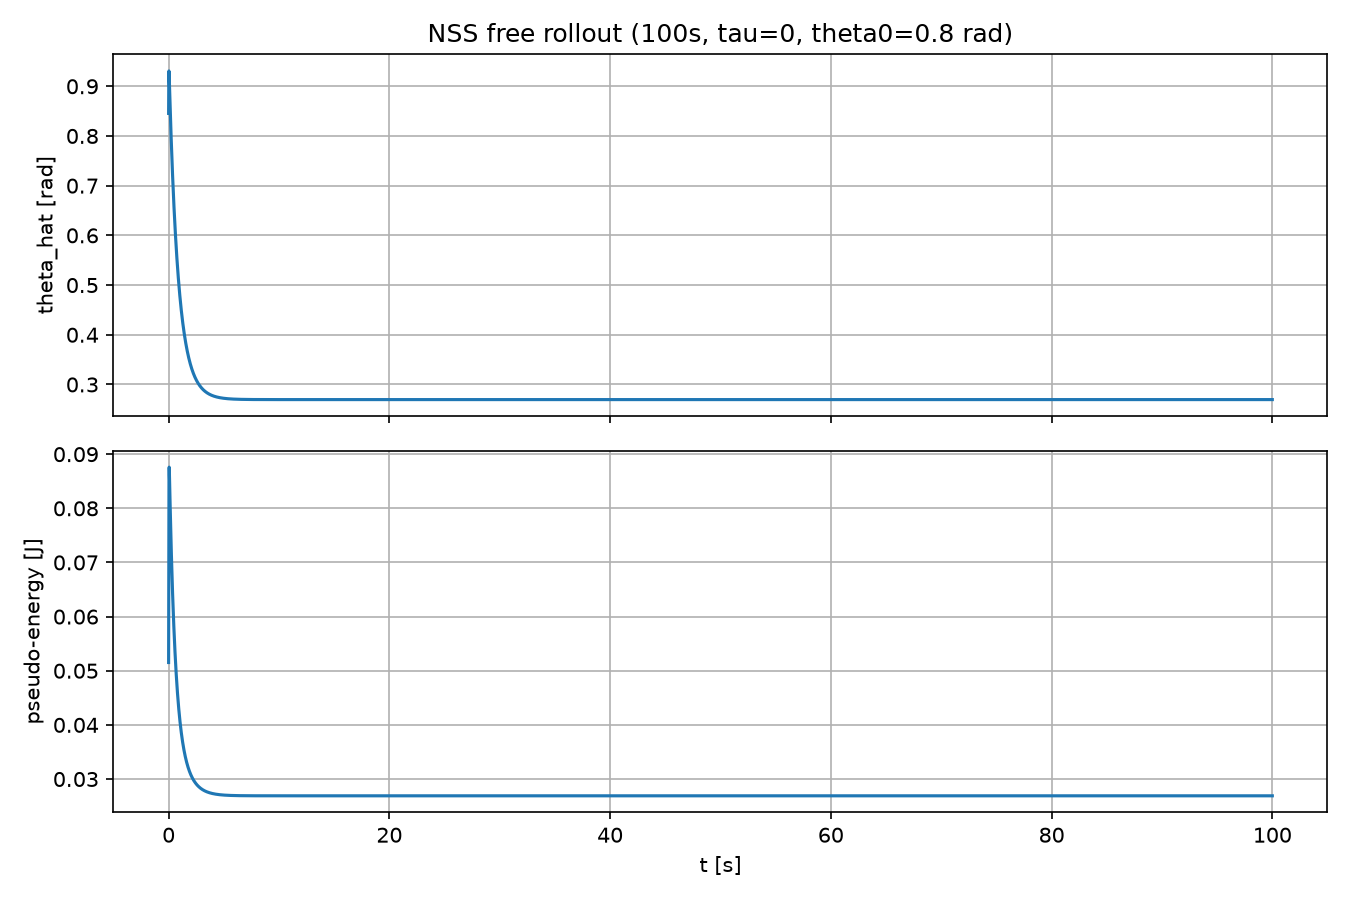
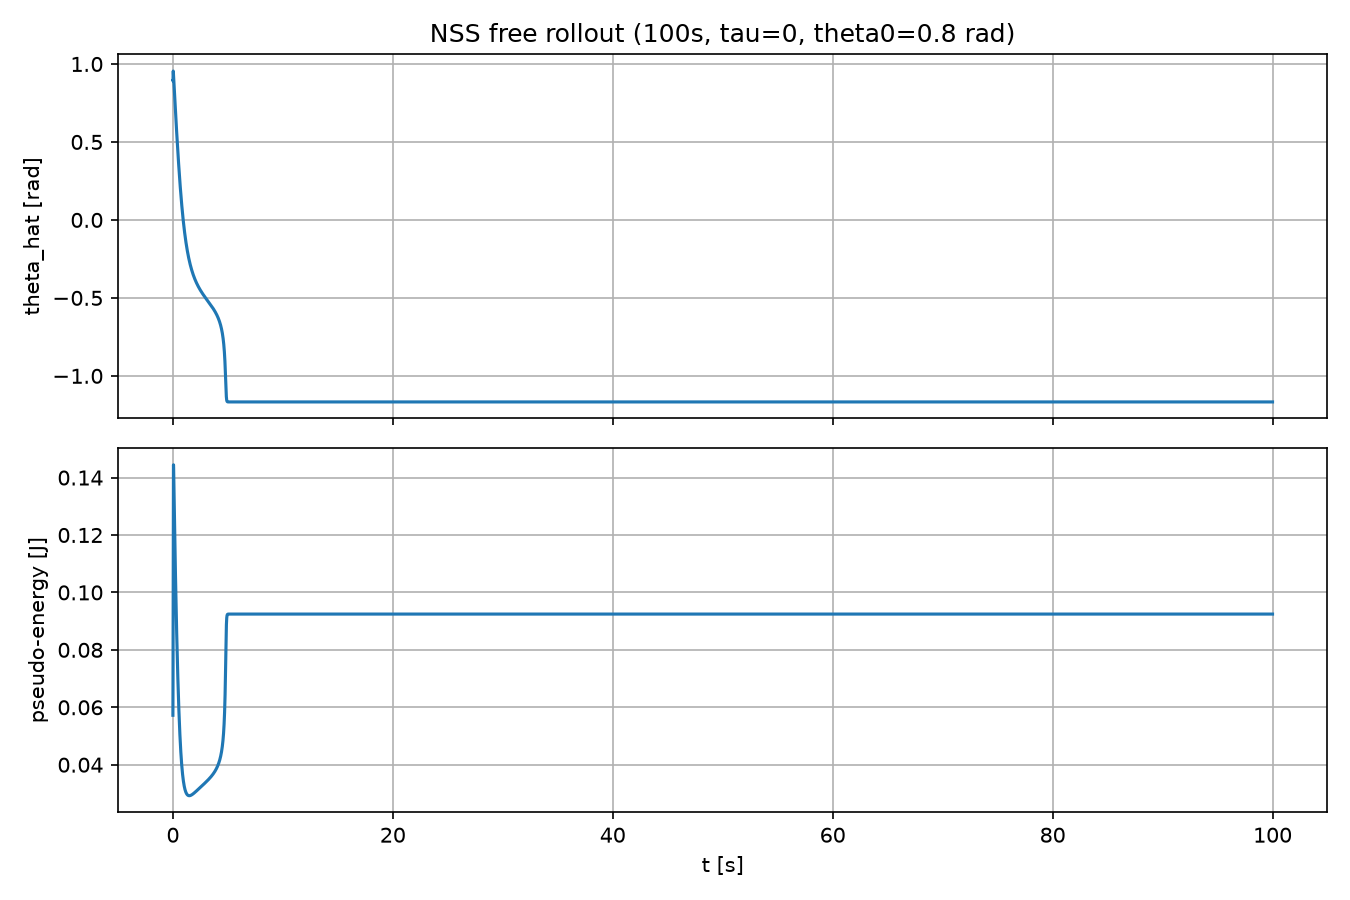
Negative result: thickening high-velocity data does not fix M-04 sign reversal
Issue #25: sign-reversed points (M-04) have 16x higher mean |theta_dot|
(1.03 vs 0.065 rad/s) and about half the sensitivity magnitude of
sign-OK points, suggesting a data-sparsity explanation. Tested by adding
gen_training_data.m's n_free_vibration_highvel parameter (default 0,
backward compatible) to generate 20 extra free-vibration scenarios biased
toward |theta_dot0| in [1.2, 2.0] rad/s (100 scenarios total vs 80),
retrained, and re-measured.

Result: sign reversal barely moved (4.32% -> 4.63%), and other diagnostics
(zero-input energy, free-rollout amplitude) got slightly worse. This rules
out the "sparse data" explanation and supports the alternative hypothesis:
the true physical sensitivity is small in that region, so a value-only loss
has no incentive to get its sign right regardless of sample count - a
structural loss-function limitation, not a coverage gap. Restored the
canonical 80-scenario dataset and nss_step1_rollout.pt checkpoint after the
experiment (reproduced identical 1-step/rollout metrics, confirming
determinism).

Ref #25

Claude-Session: https://claude.ai/code/session_01ARSgMeydwHLemQDBDpsw9q

diff --git a/matlab/gen_training_data.m b/matlab/gen_training_data.m
@@ -1,4 +1,4 @@
-function manifest = gen_training_data(n_scenarios, seed, out_dir, n_free_vibration)
+function manifest = gen_training_data(n_scenarios, seed, out_dir, n_free_vibration, n_free_vibration_highvel)
 %GEN_TRAINING_DATA Phase2 Step1: PTP feedforward torque + free-vibration auxiliary data.
 %   manifest = gen_training_data(n_scenarios, seed, out_dir, n_free_vibration)
 %
@@ -31,6 +31,9 @@ end
 if nargin < 4 || isempty(n_free_vibration)
     n_free_vibration = 20;
 end
+if nargin < 5 || isempty(n_free_vibration_highvel)
+    n_free_vibration_highvel = 0;
+end
 
 addpath(fileparts(mfilename('fullpath')));
 if ~exist(out_dir, 'dir')
@@ -45,7 +48,7 @@ margin = 0.05 * (params.theta_max - params.theta_min); % keep clear of hard rang
 lo = params.theta_min + margin;
 hi = params.theta_max - margin;
 
-n_total = n_scenarios + n_free_vibration;
+n_total = n_scenarios + n_free_vibration + n_free_vibration_highvel;
 entries = struct('file', {}, 'theta_start', {}, 'theta_end', {}, 'duration', {});
 
 for i = 1:n_scenarios
@@ -111,6 +114,35 @@ for j = 1:n_free_vibration
     entries(i).duration = T_total;
 end
 
+% High-velocity-biased free vibration (Issue #25): |theta_dot0| drawn from
+% [1.2, 2.0] rad/s instead of the uniform [-2,2] above, to thicken coverage
+% of the fast-swing region where M-04 sign reversal was found concentrated.
+for j = 1:n_free_vibration_highvel
+    i = n_scenarios + n_free_vibration + j;
+    theta0 = lo + (hi - lo) * rand();
+    speed = 1.2 + 0.8 * rand();
+    theta_dot0 = speed * sign(rand() - 0.5);
+    T_total = 10;
+
+    N = round(T_total / params.Ts_ctrl);
+    tau_seq = zeros(N, 1);
+    [t, theta, theta_dot] = simulate_pendulum([theta0; theta_dot0], tau_seq, params);
+
+    meta = struct('Ts', params.Ts_ctrl, 'seed', seed, 'scenario_id', i, ...
+        'scenario_type', 'free_vibration_zero_input_highvel', 'theta_start', theta0, ...
+        'theta_end', NaN, 'theta_dot_start', theta_dot0);
+
+    filename = sprintf('scenario_%03d.mat', i);
+    filepath = fullfile(out_dir, filename);
+    tau_logged = [tau_seq; tau_seq(end)];
+    utils.export_dataset(filepath, t, theta, theta_dot, tau_logged, meta);
+
+    entries(i).file = filename;
+    entries(i).theta_start = theta0;
+    entries(i).theta_end = NaN;
+    entries(i).duration = T_total;
+end
+
 % Shuffle scenario order and split 70/15/15 across both scenario types together.
 order = randperm(n_total);
 n_train = round(0.70 * n_total);
@@ -128,6 +160,7 @@ manifest.seed = seed;
 manifest.n_scenarios = n_total;
 manifest.n_ptp_feedforward = n_scenarios;
 manifest.n_free_vibration = n_free_vibration;
+manifest.n_free_vibration_highvel = n_free_vibration_highvel;
 manifest.step = 'Step1_ptp_feedforward_plus_free_vibration_aux';
 manifest.Ts = params.Ts_ctrl;
 manifest.scenarios = entries;
@@ -137,7 +170,7 @@ fid = fopen(manifest_path, 'w');
 fwrite(fid, jsonencode(manifest, 'PrettyPrint', true));
 fclose(fid);
 
-fprintf('Generated %d scenarios (%d PTP + %d free-vibration) -> %s (train=%d, val=%d, test=%d)\n', ...
-    n_total, n_scenarios, n_free_vibration, out_dir, n_train, n_val, n_total - n_train - n_val);
+fprintf('Generated %d scenarios (%d PTP + %d free-vibration + %d high-vel free-vibration) -> %s (train=%d, val=%d, test=%d)\n', ...
+    n_total, n_scenarios, n_free_vibration, n_free_vibration_highvel, out_dir, n_train, n_val, n_total - n_train - n_val);
 
 end

diff --git a/03_実装計画書.md b/03_実装計画書.md
@@ -185,6 +185,18 @@ N=1固定モデルは1step誤差自体は極めて小さいが、50stepロール
 Phase5(閉ループ検証)へ進みつつ、M-04符号反転(4.32%)とゼロ入力エネルギー未収束を
 既知のリスクとして注視する。
 
+**M-04符号反転の原因調査(Issue #25)**: 符号反転点は正常点と比べ平均|θ̇|が16倍大きく
+(1.03 vs 0.065 rad/s、自由振動の高速域に集中)、感度の大きさ(中央値)は約半分だった。
+これを踏まえ「高速域のデータを厚くすれば改善するか」を検証するため、
+gen_training_data.mに`n_free_vibration_highvel`引数を追加し(デフォルト0、後方互換)、
+|θ̇0|=1.2〜2.0radに偏らせた自由振動シナリオを20本追加(計100シナリオ)して再学習した。
+**結果: M-04符号反転は4.32%→4.63%とほぼ変化せず、他の指標もわずかに悪化した**。
+「データが薄いから間違える」という仮説は否定され、「その領域では真の物理的感度自体が
+小さく、値の誤差のみを見る損失関数がそこでの符号を気にする動機を持たない」という
+仮説の方が支持される結果となった。これは**データカバレッジの問題ではなく損失関数設計
+そのものに起因する構造的な限界**であることを示唆し、Ablation A的アプローチ(データ拡充)
+では解決しないと結論づける。標準モデル・データセットは80シナリオ版に復元済み。
+
 ### Phase 5: MATLAB/Simulink結合・閉ループ検証(所要目安: 2日)
 
 | タスク | 成果物 | 対応要件 |
